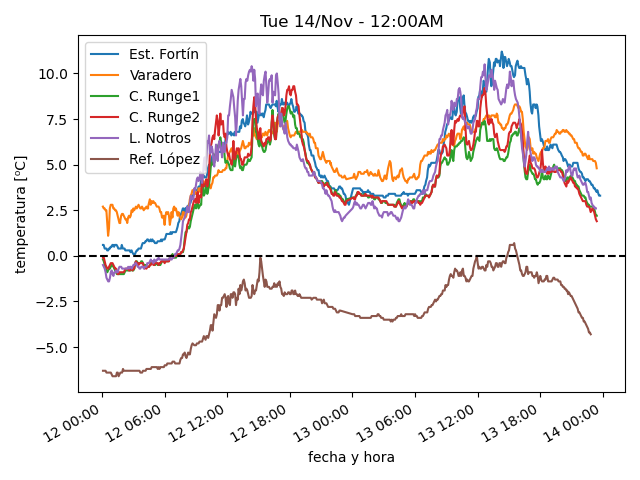
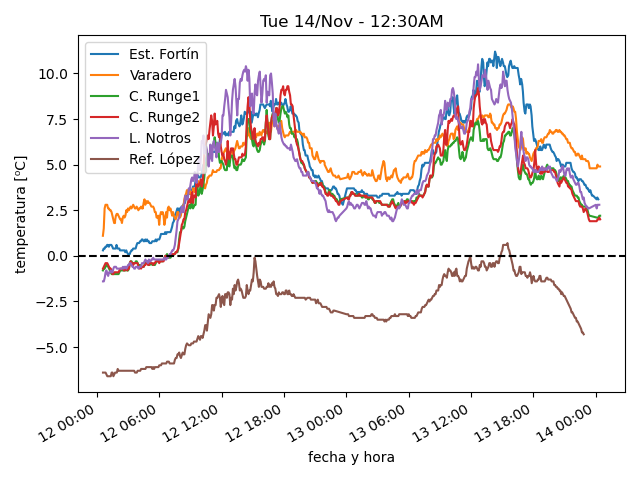
actualiza datos

diff --git a/estaciones/estacion1.html b/estaciones/estacion1.html
@@ -13,42 +13,42 @@
     </tr>
     <tr>
      <td class="stats_data">
-      Mon 13/Nov
+      Tue 14/Nov
      </td>
     </tr>
     <tr>
      <td class="stats_data">
-      11:44PM
+      12:14AM
      </td>
     </tr>
     <tr>
      <td class="stats_data">
-      3.3⁰C
+      3.1⁰C
      </td>
     </tr>
     <tr>
      <td class="stats_data">
-      -1.8⁰C
+      -2.2⁰C
      </td>
     </tr>
     <tr>
      <td class="stats_data">
-      69.0%
+      68.0%
      </td>
     </tr>
     <tr>
      <td class="stats_data">
-      1014.9hPa
+      1015.24hPa
      </td>
     </tr>
     <tr>
      <td class="stats_data">
-      3.7/8.0 km/hr W
+      6.9/16.6 km/hr WSW
      </td>
     </tr>
     <tr>
      <td class="stats_data">
-      0.25 / 0.0 mm
+      0.0 / 0.0 mm
      </td>
     </tr>
     <tr>

diff --git a/estaciones/estacion4.html b/estaciones/estacion4.html
@@ -13,42 +13,42 @@
     </tr>
     <tr>
      <td class="stats_data">
-      Mon 13/Nov
+      Tue 14/Nov
      </td>
     </tr>
     <tr>
      <td class="stats_data">
-      11:24PM
+      12:24AM
      </td>
     </tr>
     <tr>
      <td class="stats_data">
-      1.9⁰C
+      2.0⁰C
      </td>
     </tr>
     <tr>
      <td class="stats_data">
-      -3.0⁰C
+      -2.3⁰C
      </td>
     </tr>
     <tr>
      <td class="stats_data">
-      69.7%
+      73.3%
      </td>
     </tr>
     <tr>
      <td class="stats_data">
-      1013.61hPa
+      1013.51hPa
      </td>
     </tr>
     <tr>
      <td class="stats_data">
-      2.2/3.7 km/hr SW
+      2.3/3.7 km/hr SW
      </td>
     </tr>
     <tr>
      <td class="stats_data">
-      3.99 / 0.0 mm
+      0.0 / 0.0 mm
      </td>
     </tr>
     <tr>

diff --git a/estaciones/estacion5.html b/estaciones/estacion5.html
@@ -13,42 +13,42 @@
     </tr>
     <tr>
      <td class="stats_data">
-      Mon 13/Nov
+      Tue 14/Nov
      </td>
     </tr>
     <tr>
      <td class="stats_data">
-      11:20PM
+      12:20AM
      </td>
     </tr>
     <tr>
      <td class="stats_data">
-      2.6⁰C
+      2.8⁰C
      </td>
     </tr>
     <tr>
      <td class="stats_data">
-      -3.3⁰C
+      -2.1⁰C
      </td>
     </tr>
     <tr>
      <td class="stats_data">
-      65.0%
+      70.0%
      </td>
     </tr>
     <tr>
      <td class="stats_data">
-      1018.35hPa
+      1018.29hPa
      </td>
     </tr>
     <tr>
      <td class="stats_data">
-      0.0/2.6 km/hr N
+      0.0/0.0 km/hr N
      </td>
     </tr>
     <tr>
      <td class="stats_data">
-      3.56 / 0.0 mm
+      0.0 / 0.0 mm
      </td>
     </tr>
     <tr>

diff --git a/estaciones/estacion3.html b/estaciones/estacion3.html
@@ -13,12 +13,12 @@
     </tr>
     <tr>
      <td class="stats_data">
-      Mon 13/Nov
+      Tue 14/Nov
      </td>
     </tr>
     <tr>
      <td class="stats_data">
-      11:24PM
+      12:24AM
      </td>
     </tr>
     <tr>
@@ -28,27 +28,27 @@
     </tr>
     <tr>
      <td class="stats_data">
-      -2.3⁰C
+      -1.6⁰C
      </td>
     </tr>
     <tr>
      <td class="stats_data">
-      72.4%
+      76.0%
      </td>
     </tr>
     <tr>
      <td class="stats_data">
-      1004.84hPa
+      1004.74hPa
      </td>
     </tr>
     <tr>
      <td class="stats_data">
-      6.8/10.3 km/hr SW
+      4.6/6.9 km/hr WSW
      </td>
     </tr>
     <tr>
      <td class="stats_data">
-      3.99 / 0.0 mm
+      0.0 / 0.0 mm
      </td>
     </tr>
     <tr>

diff --git a/estaciones/estacion2.html b/estaciones/estacion2.html
@@ -13,37 +13,37 @@
     </tr>
     <tr>
      <td class="stats_data">
-      Mon 13/Nov
+      Tue 14/Nov
      </td>
     </tr>
     <tr>
      <td class="stats_data">
-      11:24PM
+      12:24AM
      </td>
     </tr>
     <tr>
      <td class="stats_data">
-      4.8⁰C
+      4.9⁰C
      </td>
     </tr>
     <tr>
      <td class="stats_data">
-      -0.2⁰C
+      0.8⁰C
      </td>
     </tr>
     <tr>
      <td class="stats_data">
-      70.2%
+      74.8%
      </td>
     </tr>
     <tr>
      <td class="stats_data">
-      1019.91hPa
+      1020.01hPa
      </td>
     </tr>
     <tr>
      <td class="stats_data">
-      22.8/31.1 km/hr WNW
+      35.1/41.5 km/hr NW
      </td>
     </tr>
     <tr>
